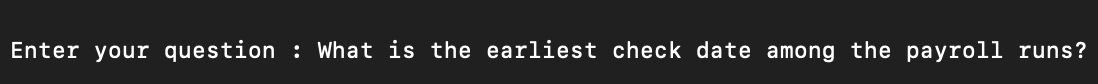
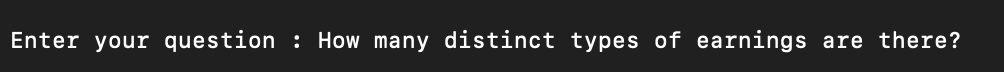
Inserted the example in the README.md

Changed region(s): [[0.0, 0.4167, 0.988, 0.75], [0.741, 0.4167, 0.7719, 0.4444], [0.494, 0.4167, 0.5249, 0.4444]]

diff --git a/README.md b/README.md
@@ -74,15 +74,14 @@ Index, Question, SQL Query
 
 The delimiter should be "|" instead of comma as a txt file 
 
-
 --- Prompt 3 ---
 Give me <X> more different natural language questions and the corresponding SQL queries in the same format starting from index 11 in a txt file
 ```
 
-The synthetic dataset generated for each table is present in ```/data/example_queries```. The complete set folder contains the all the syn
+The synthetic dataset generated for each table is present in ```/data/example_queries```. The complete set folder contains the all the synthetic data
 <br>
 
-Note - <X> is the number of synthetic questions to be generated. I used 40 synthetic questions for each table.
+Note - X is the number of synthetic questions to be generated. I used 40 synthetic questions for each table.
 For checking the syntax of the SQL queries, I ran all the queries over the table once (see: ```src/check_retr_data.py```).
 
 
@@ -108,7 +107,7 @@ gpt2
 #### <b> CoT Prompting helps the model output than Zero-Shot Prompting </b>
 Empirically, I have observed that the model produces much better queries with Retrieval-based CoT Prompting than Zero-Shot Prompting.
 
-For instance, For the question <i> What is the earliest check date among the payroll runs? </i> for the table - payrollrun.
+For instance, For the question <i> How many distinct types of earnings are there? </i> for the table - earning
  
 For Zero-Shot Prompting, the model outputs the following query which does not work -
 ![plot](images/stage5a.png)*<p style="text-align: center;"></p>*
